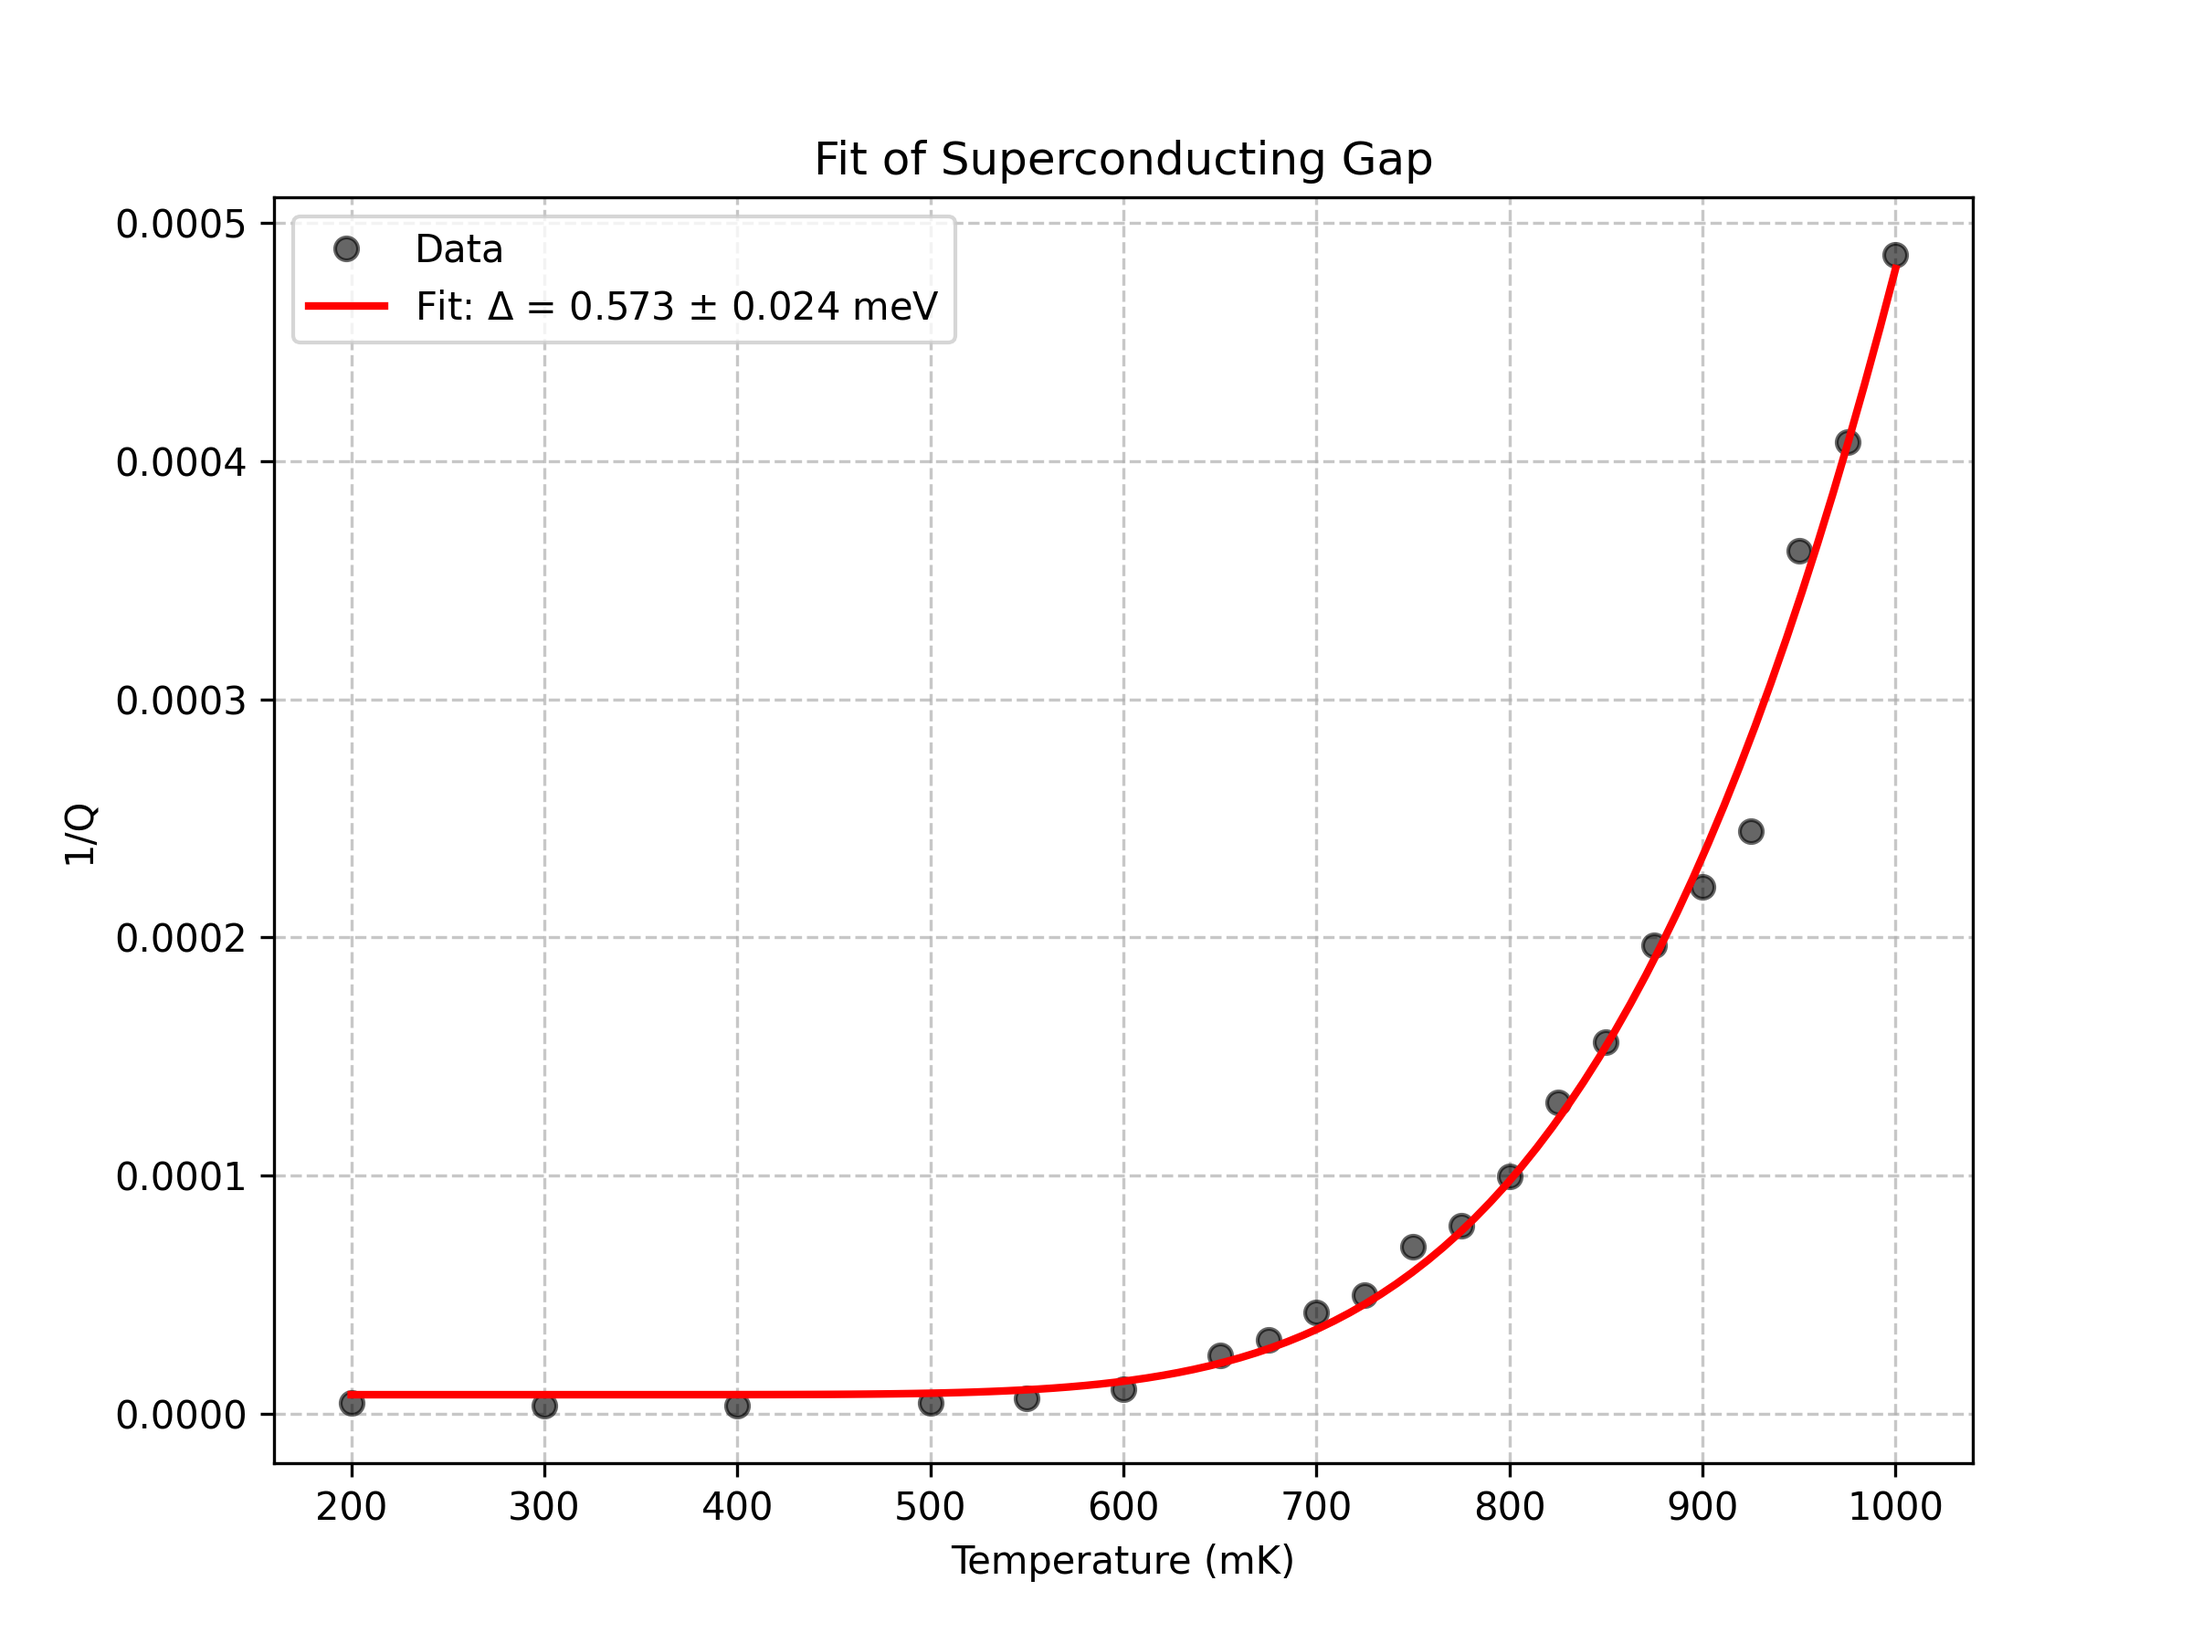
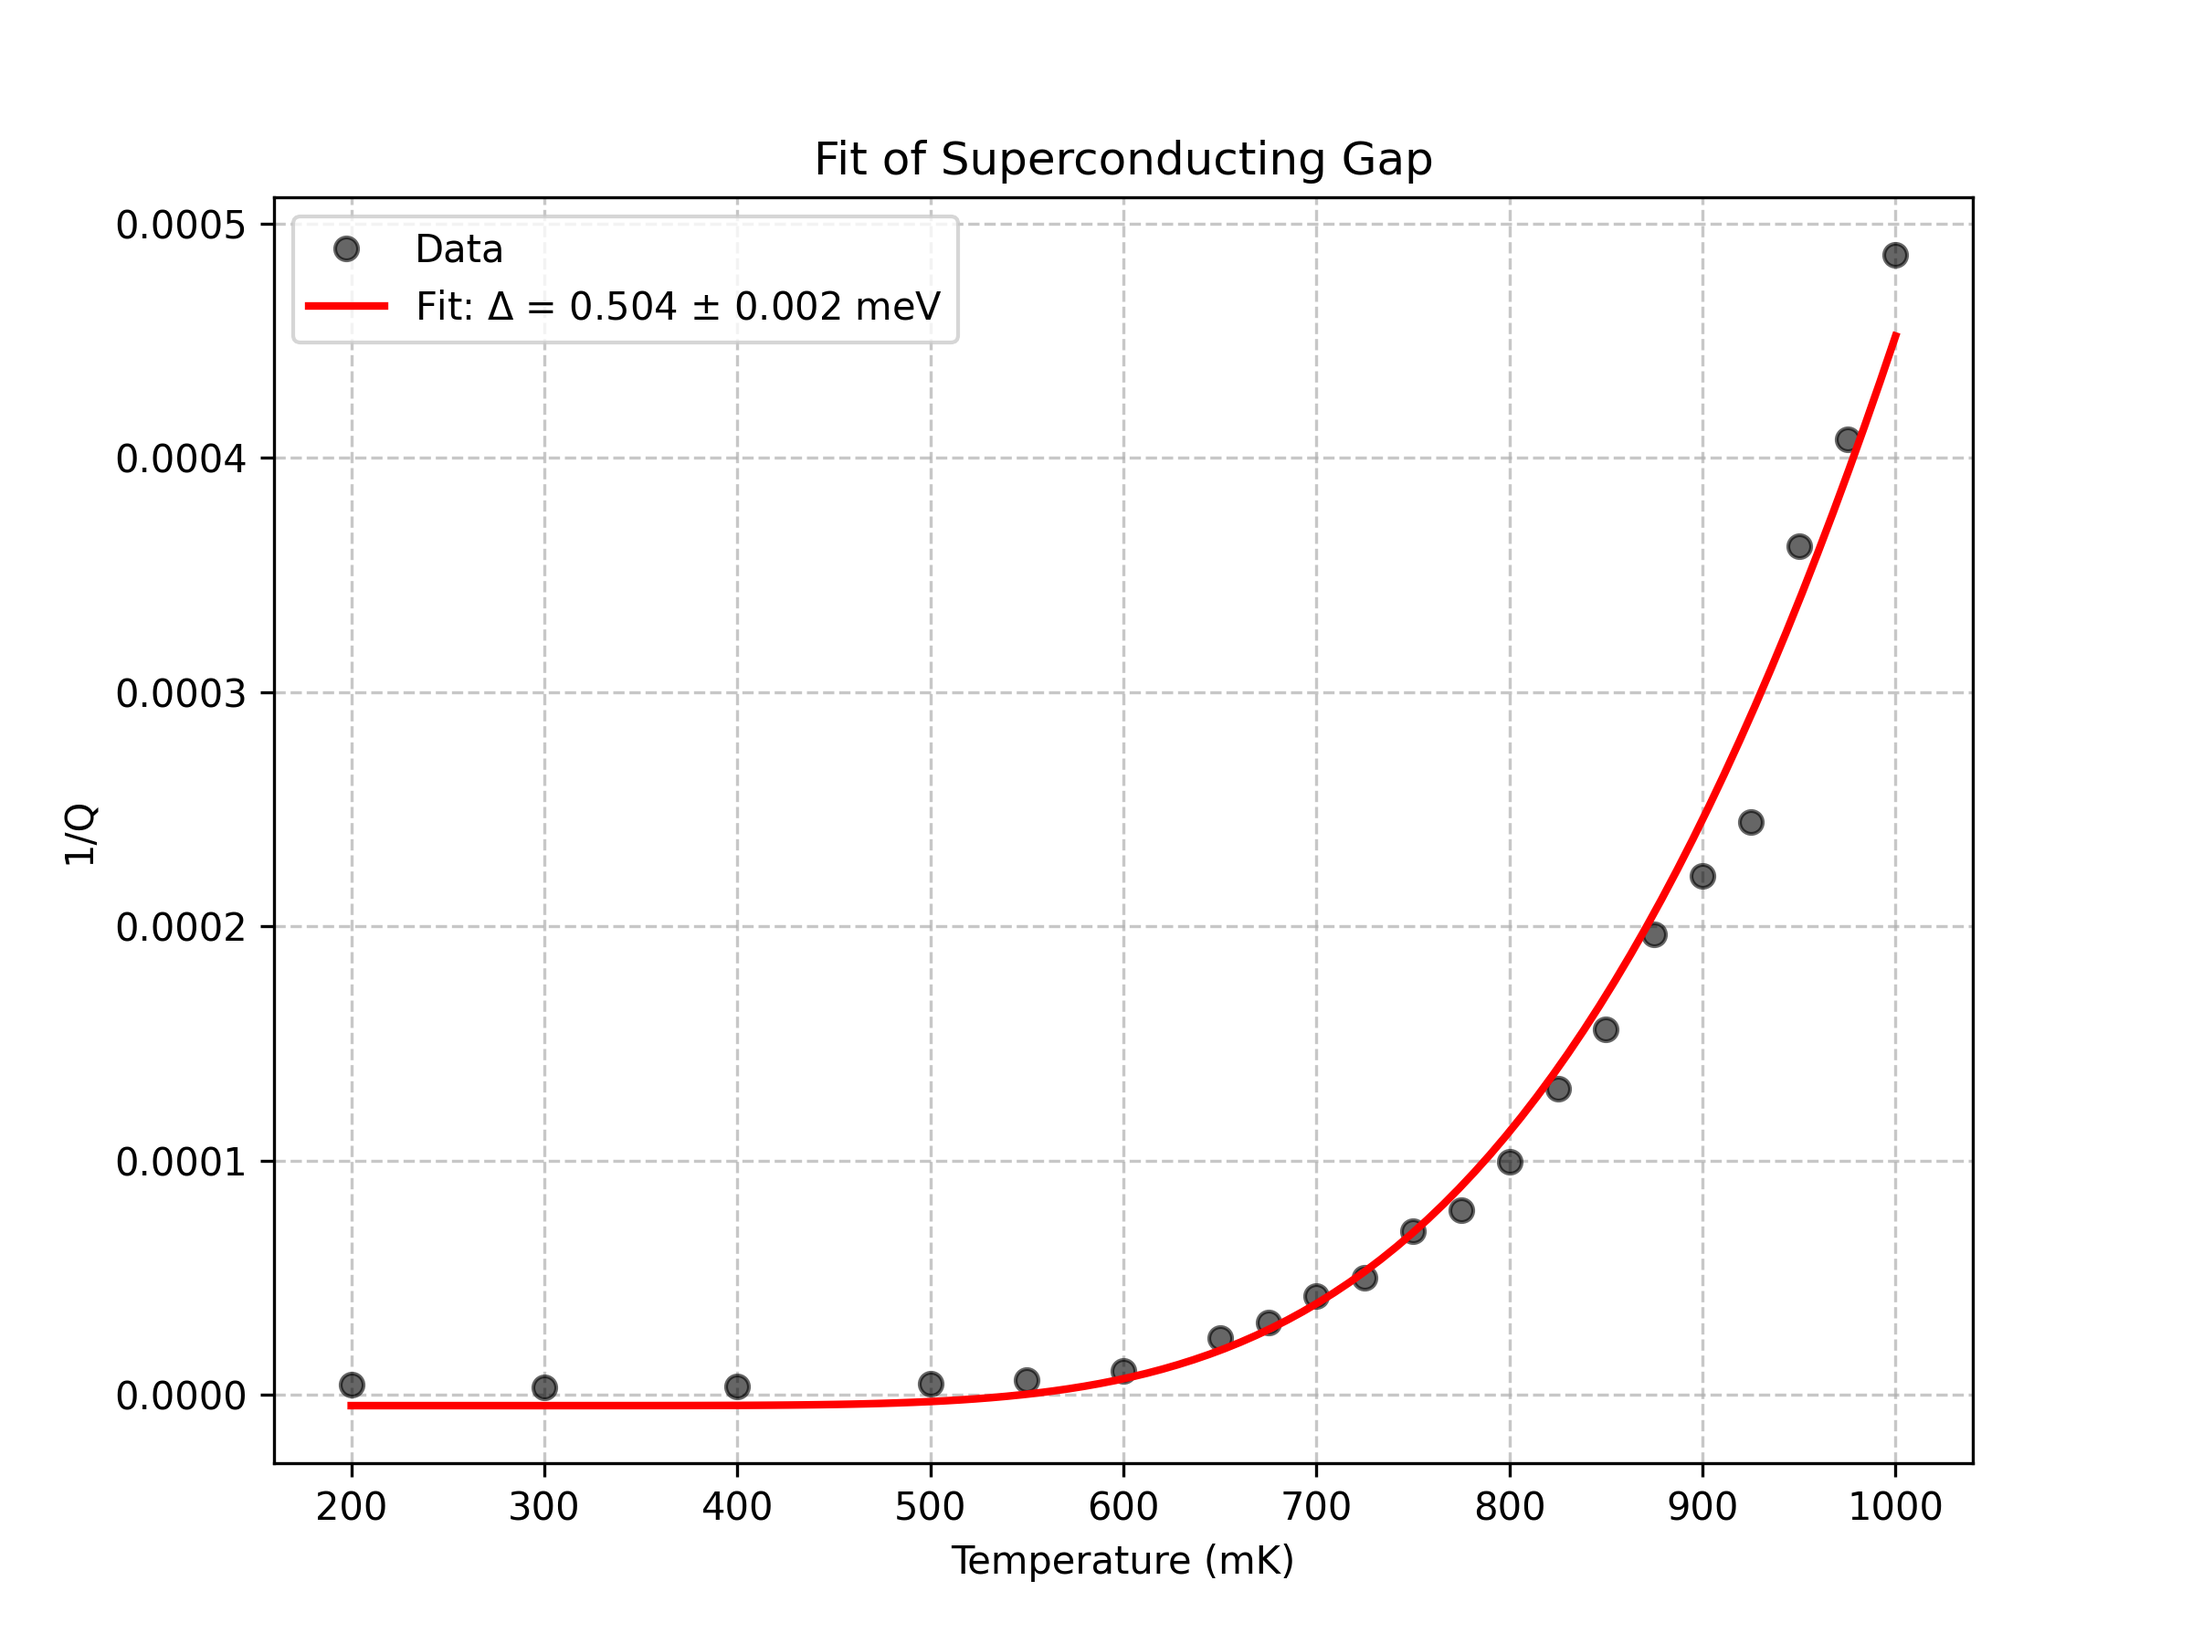
updated sonnet data

diff --git a/3DQubit/T_dep_results/SCgap_fit.py b/3DQubit/T_dep_results/SCgap_fit.py
@@ -11,8 +11,10 @@ from scipy.special import i0, k0
 # --- COSTANTI FISICHE ---
 k_B = 8.617333262145e-5  # Costante di Boltzmann (eV/K)
 h = 4.135667696e-15      # Costante di Planck (eV s)
- 
-def inverse_Qi_model(T_mK, inv_Qi_0, alpha, Delta_eV, f_0):
+alpha = 0.738766675
+f_0 = 7.49e9
+
+def model(T_mK, inv_Qi_0, Delta_eV):
     """
     Modello per 1/Qi(T) basato sulla Teoria di Mattis-Bardeen.
     - inv_Qi_0: Dissipazione residua a T=0 (ovvero 1/Qi(0))
@@ -40,22 +42,24 @@ data = np.loadtxt("revQ_vs_Temperature.txt")
 temp = data[:,0]
 revQ = data[:,1]
 
-p0 = [0.001, 1000, 0.001]
-
+p0 = [revQ[0], 0.002]
 # === Fit ===
 # Aggiungiamo i bounds per evitare l'overflow (Delta deve essere positivo)
 popt, pcov = curve_fit(model, temp, revQ, p0=p0)
-a_fit, b_fit, Delta_fit = popt
+inv_Q0_fit, Delta_fit = popt
 
 # Calcolo dell'errore (opzionale ma utile)
 perr = np.sqrt(np.diag(pcov))
-Delta_err = perr[2]
+Delta_err = perr[1]
 
+T_c = Delta_fit/(1.764 * k_B)
+
+print(f"Critical temperature T_c = {T_c:.4f} K")
 print(f"Superconducting Gap = {Delta_fit*1e3:.4f} meV")
 
 # Prepara i dati per il plot del fit
 x_fit = np.linspace(np.min(temp), np.max(temp), 100)
-f_fit = model(x_fit, a_fit, b_fit, Delta_fit)
+f_fit = model(x_fit,inv_Q0_fit, Delta_fit)
 
 plt.figure(figsize=(8, 6))
 plt.plot(temp, revQ, label="Data", marker="o", linestyle="", color="black", alpha=0.6)
